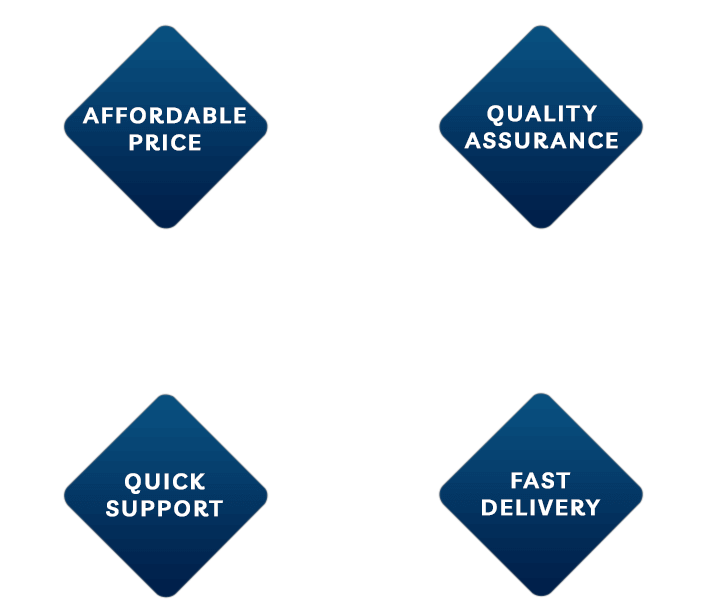
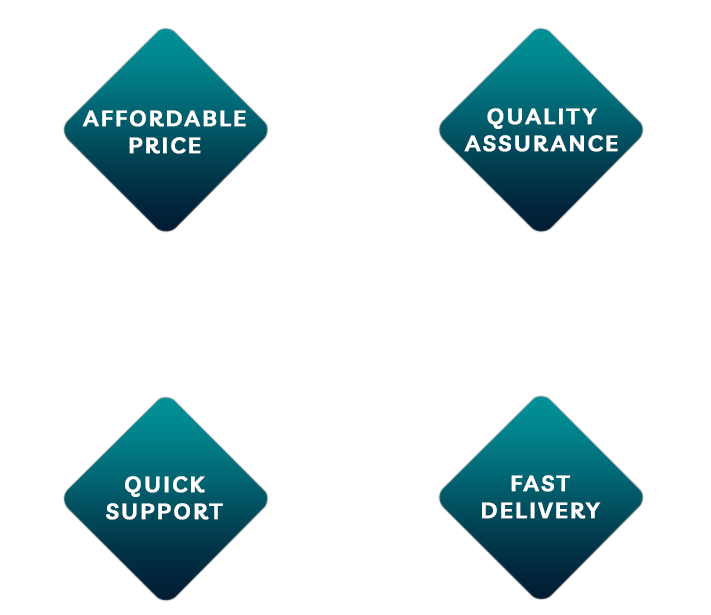
commit

diff --git a/public/assets/frontend/css/style.css b/public/assets/frontend/css/style.css
@@ -1422,7 +1422,7 @@ blockquote cite:before {
     font-size: 14px;
     letter-spacing: 1px;
     font-weight: 600;
-    color: #03305c;
+    color: #01aeb1;
     text-transform: uppercase;
     margin-bottom: 10px;
 }
@@ -1470,10 +1470,10 @@ blockquote cite:before {
     display: none;
 }
 .sec-title .sub-text.style2:after {
-    background-color: #03305c;
+    background-color: #01aeb1;
 }
 .sec-title .sub-text.style2:before {
-    background-color: #03305c;
+    background-color: #01aeb1;
 }
 .sec-title .sub-text.style-bg {
     background-color: #1273eb17;
